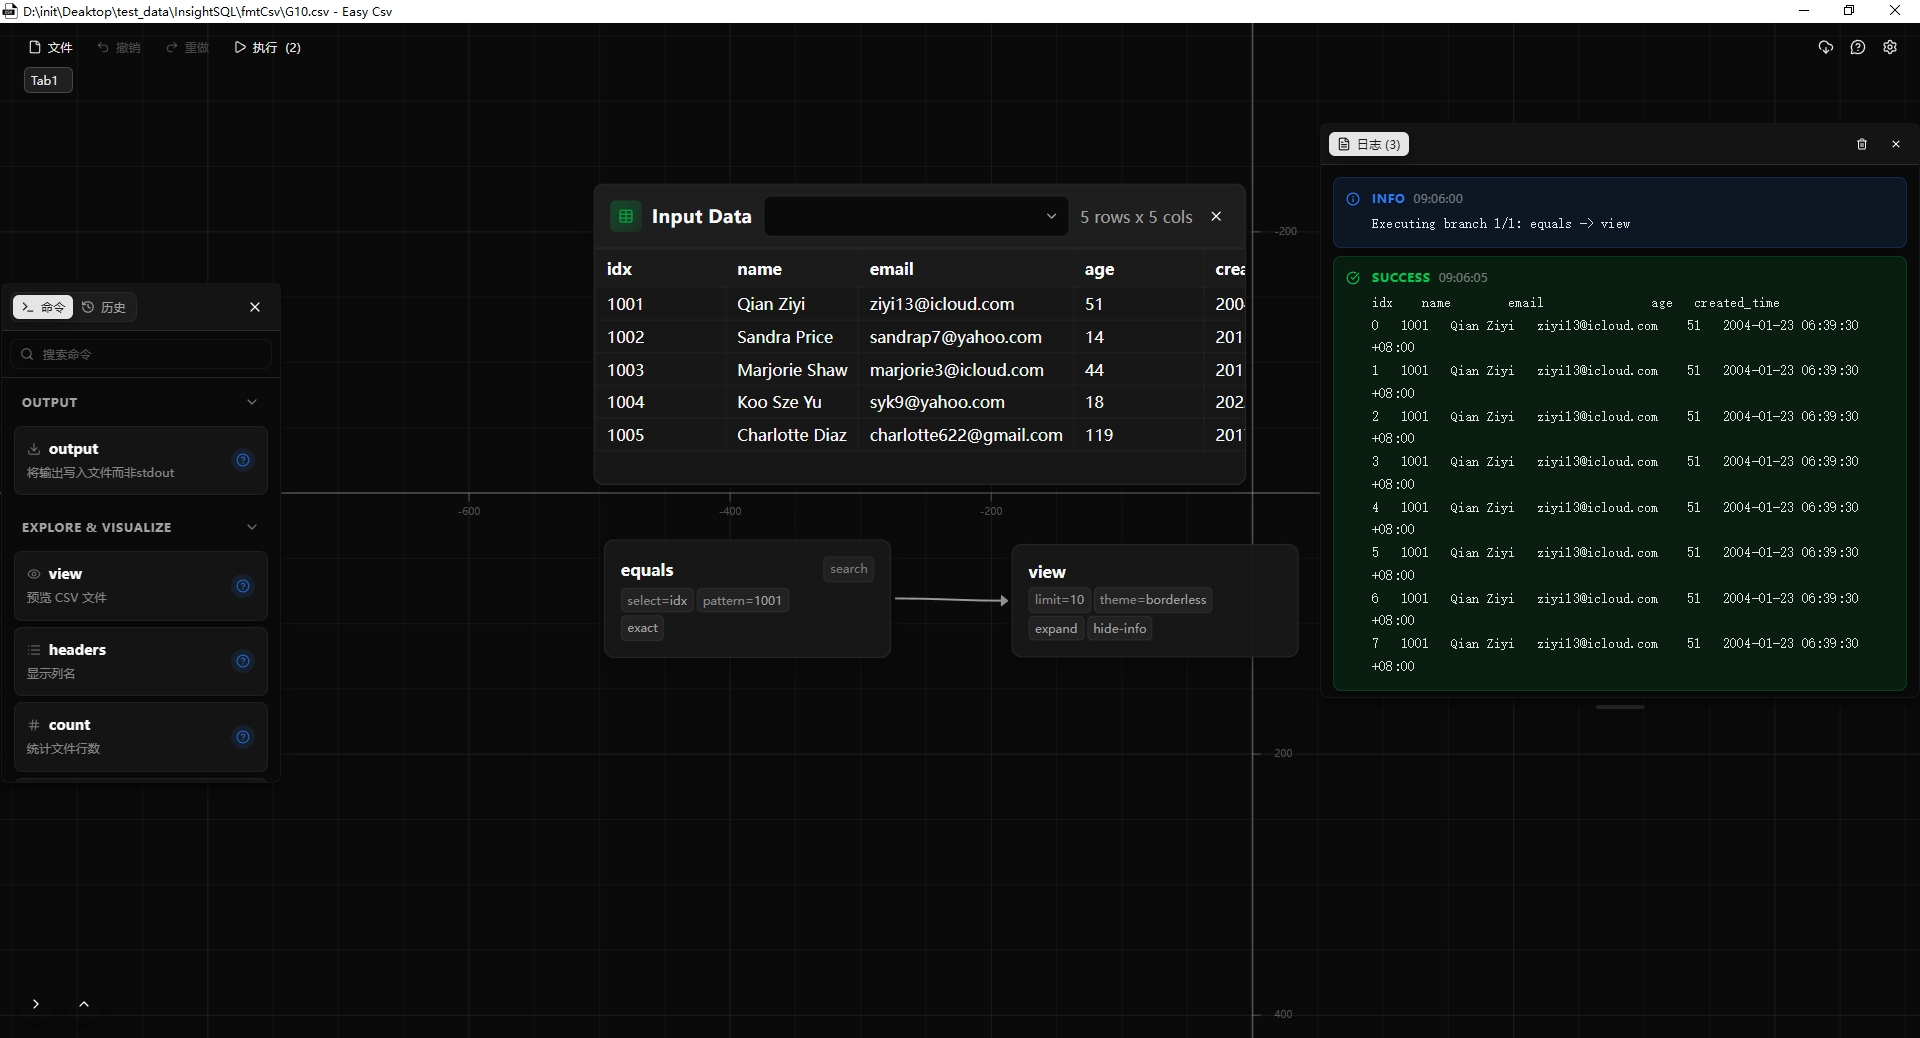
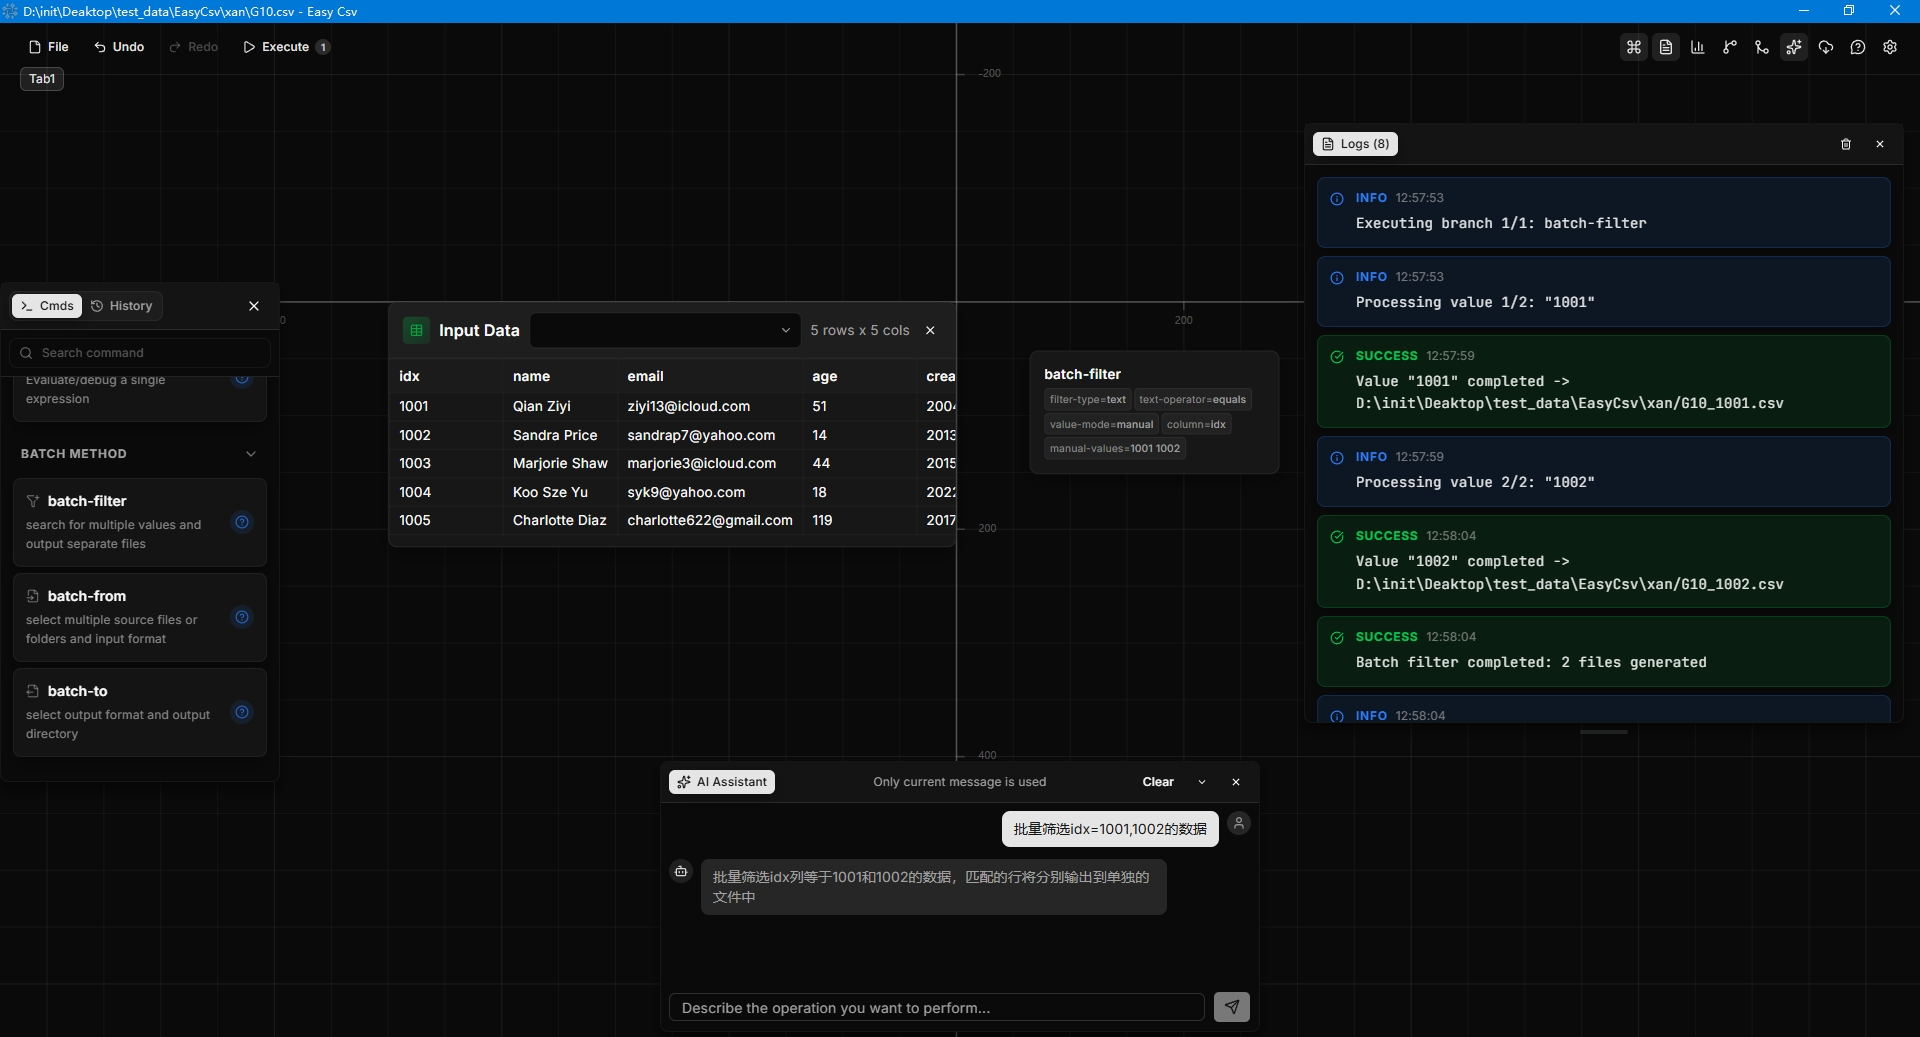
docs: overhaul README and refresh help docs - Rewrite README: document features (AI assistant, expression editor,   batch filter/convert, data profiling, pipeline versioning, data lineage),   testing, keyboard shortcuts, AI providers/models, and docs locations - Add note that xan.exe must be placed 

diff --git a/src/components/help/HelpContent.ts b/src/components/help/HelpContent.ts
@@ -25,12 +25,13 @@ export const helpContentEn = `
 | \`Ctrl\` + \`Z\` | Undo |
 | \`Ctrl\` + \`Y\` | Redo |
 | \`Ctrl\` + \`R\` | Execute |
-| \`Shift\` + \`h\` | Show help |
-| \`Shift\` + \`c\` | Check for updates |
-| \`Shift\` + \`s\` | Open settings |
+| \`Shift\` + \`H\` | Show help |
+| \`Shift\` + \`C\` | Check for updates |
+| \`Shift\` + \`S\` | Open settings |
 | \`Alt\` + \`C\` | Commands |
 | \`Alt\` + \`Q\` | Logs |
 | \`Alt\` + \`D\` | Data Profile |
+| \`Alt\` + \`A\` | AI Assistant |
 | \`F5\` | Refresh |
 
 ---
@@ -52,7 +53,7 @@ export const helpContentEn = `
 ---
 
 ### Log Panel
-View execution logs and debug information by clicking the log icon in the bottom-left corner.
+View execution logs and debug information by clicking the log icon in the top-right corner.
 
 ---
 

diff --git a/src/components/help/HelpContentCn.ts b/src/components/help/HelpContentCn.ts
@@ -21,12 +21,13 @@ export const helpContentCn = `
 | \`Ctrl\` + \`Z\` | 撤销 |
 | \`Ctrl\` + \`Y\` | 重做 |
 | \`Ctrl\` + \`R\` | 执行 |
-| \`Shift\` + \`h\` | 显示帮助 |
-| \`Shift\` + \`c\` | 检查更新 |
-| \`Shift\` + \`s\` | 打开设置 |
+| \`Shift\` + \`H\` | 显示帮助 |
+| \`Shift\` + \`C\` | 检查更新 |
+| \`Shift\` + \`S\` | 打开设置 |
 | \`Alt\` + \`C\` | 命令面板 |
 | \`Alt\` + \`Q\` | 日志面板 |
 | \`Alt\` + \`D\` | 数据概览 |
+| \`Alt\` + \`A\` | AI助手 |
 | \`F5\` | 刷新 |
 
 ---
@@ -48,7 +49,7 @@ export const helpContentCn = `
 ---
 
 ### 日志面板
-点击左下角的日志图标查看执行日志和调试信息
+点击右上角的日志图标查看执行日志和调试信息
 
 ---
 

diff --git a/src/hooks/KeyboardShortcuts.ts b/src/hooks/KeyboardShortcuts.ts
@@ -15,6 +15,7 @@ interface KeyboardShortcutCallbacks {
   onCommands: () => void;
   onLogs: () => void;
   onDataProfile: () => void;
+  onAI: () => void;
 }
 
 interface KeyboardShortcutState {
@@ -96,6 +97,9 @@ export function useKeyboardShortcuts(
       } else if (alt && key === "d") {
         e.preventDefault();
         callbacksRef.current.onDataProfile();
+      } else if (alt && key === "a") {
+        e.preventDefault();
+        callbacksRef.current.onAI();
       }
     };
 

diff --git a/src/App.tsx b/src/App.tsx
@@ -614,6 +614,7 @@ function AppContent() {
       onCommands: () => ui.setShowCommandPanel(!ui.showCommandPanel),
       onLogs: () => ui.setShowLogPanel(!ui.showLogPanel),
       onDataProfile: () => ui.setShowDataProfile(!ui.showDataProfile),
+      onAI: () => ui.setShowAIPanel(!ui.showAIPanel),
     },
     {
       undoStackLength: pipeline.undoStack.length,

diff --git a/README.md b/README.md
@@ -1,6 +1,8 @@
 # Easy Csv
 
-Handle CSV data in a modular way (chain operations together like building blocks using [xan](https://github.com/medialab/xan))
+Handle CSV data in a modular way — chain [xan](https://github.com/medialab/xan) commands together like building blocks in a visual pipeline, without leaving your desktop.
+
+Built with [Tauri](https://tauri.app/) v2 + React 19 + React Flow, and powered by [xan](https://github.com/medialab/xan) as the underlying CSV toolkit.
 
 ## Screenshots
 
@@ -8,27 +10,33 @@ Handle CSV data in a modular way (chain operations together like building blocks
 
 ![dark](/docs/img/dark.jpg)
 
+## Features
+
+- **Visual pipeline editor** — drag, connect and configure xan commands on a node canvas (dagre auto-layout, cut/fall animations, undo/redo, copy/paste)
+- **58 built-in xan commands** — from basic `sort` / `filter` / `select` to `pivot`, `window`, `join`, `stats`, `split`, `partition`, `to` / `from` conversion and more, each with a dedicated configuration dialog
+- **AI assistant** — describe what you want in natural language (Chinese/English), and the assistant generates ready-to-insert pipeline steps via DeepSeek / Qwen / Hugging Face, with RAG over per-command docs
+- **Expression editor** — syntax highlighting and autocomplete for 200+ [Moonblade](https://github.com/medialab/xan) functions
+- **Batch operations** — batch filter (split one CSV into many files by column value) and batch format conversion (CSV ↔ XLSX ↔ JSON)
+- **Data profiling** — one-click column statistics (count, nulls, min/max/mean, etc.) via `xan stats`
+- **Pipeline versioning** — save / restore / delete pipeline versions with tags
+- **Data lineage** — track how columns transform through your pipeline
+- **Execution log** — per-step output inspection and copy
+- **Bilingual UI** — English / 中文, plus dark/light/system themes
+
 ## Prerequisites
 
 - [Node.js](https://nodejs.org/) (v18 or higher)
 - [pnpm](https://pnpm.io/)
-- [Rust](https://www.rust-lang.org/)
-- [xan](https://github.com/medialab/xan) CLI tool
+- [Rust](https://www.rust-lang.org/) toolchain (1.94 or higher)
 
 ## Installation
 
-1. Install xan CLI tool:
-   ```bash
-   # Using cargo
-   cargo install xan --locked
-   
-   # Or download pre-built binaries from https://github.com/medialab/xan/releases
-   ```
-
+1. Place a Windows `xan.exe` binary in `src-tauri/resources/` — it is embedded into the binary at compile time and extracted on first run (see `src-tauri/src/xan.rs`). You can build it with `cargo build --release` from the [xan](https://github.com/medialab/xan) source, or download a pre-built binary from [xan releases](https://github.com/medialab/xan/releases).
 2. Install project dependencies:
-   ```bash
-   pnpm install
-   ```
+
+```bash
+pnpm install
+```
 
 ## Development
 
@@ -42,13 +50,54 @@ pnpm tauri dev
 pnpm tauri build
 ```
 
+## Testing
+
+```bash
+pnpm test        # run the vitest suite
+pnpm test:watch  # watch mode
+```
+
 ## Usage
 
-1. **Open File / Import Pipeline**: Open csv file or import pipeline
-2. **Browse Commands**: The left panel shows all available xan commands organized by category
-3. **Add to Flow**: Click on any command to add it to your flow
-4. **Configure Parameters**: Click on the setting icon in the upper right corner of the card to modify parameters
-5. **Execute**: Click the "Execute" button to run your flow
+1. **Open a CSV** — drag & drop a file onto the window, or use `Ctrl+O`
+2. **Browse commands** — the left panel lists all 58 xan commands by category (or press `Alt+C`)
+3. **Add to flow** — click a command (or ask the AI assistant with `Alt+A`) to add it to your pipeline
+4. **Configure parameters** — click the gear icon on a step card, or double-click the node
+5. **Execute** — press `Ctrl+R` to run the whole pipeline, then inspect results in the log panel (`Alt+Q`) and data profile (`Alt+D`)
+
+### Keyboard shortcuts
+
+| Shortcut | Action |
+|----------|--------|
+| `Ctrl+O` / `Ctrl+N` | Open file / open file in new tab |
+| `Ctrl+S` / `Ctrl+E` | Save / export pipeline |
+| `Ctrl+I` | Import pipeline |
+| `Ctrl+Z` / `Ctrl+Y` | Undo / redo |
+| `Ctrl+R` | Execute pipeline |
+| `Shift+H` / `Shift+C` / `Shift+S` | Help / check update / settings |
+| `Alt+C` / `Alt+Q` / `Alt+D` / `Alt+A` | Commands / logs / data profile / AI panel |
+
+## AI Assistant
+
+Configure your provider and API key in **Settings → AI** (`Shift+S`).
+
+Supported providers:
+
+| Provider | Model examples |
+|----------|----------------|
+| DeepSeek | `deepseek-v4-flash`, `deepseek-v4-pro` |
+| Qwen | `qwen-turbo`, `qwen-max`, `qwen3.7-plus` |
+| Hugging Face | `TinyLlama-1.1B`, `Qwen2.5-3B`, `Phi-3.5-Mini` |
+
+The assistant only uses your current message (not conversation history), and commands it generates are automatically connected to the last step in your pipeline.
+
+## Documentation
+
+- [docs/AI/INDEX.md](docs/AI/INDEX.md) — full architecture and codebase index (Rust backend, frontend, hooks, components, how to modify each area)
+- [docs/AI/USAGE.md](docs/AI/USAGE.md) — merged usage docs for all 58 xan commands
+- `docs/AI_usage/` — generated per-command docs (source: `pnpm run generate-ai-usage`)
+- `docs/cmd/` — per-command help docs (English)
+- `docs/cmd_zh/` — per-command help docs (Chinese)
 
 ## License
 
